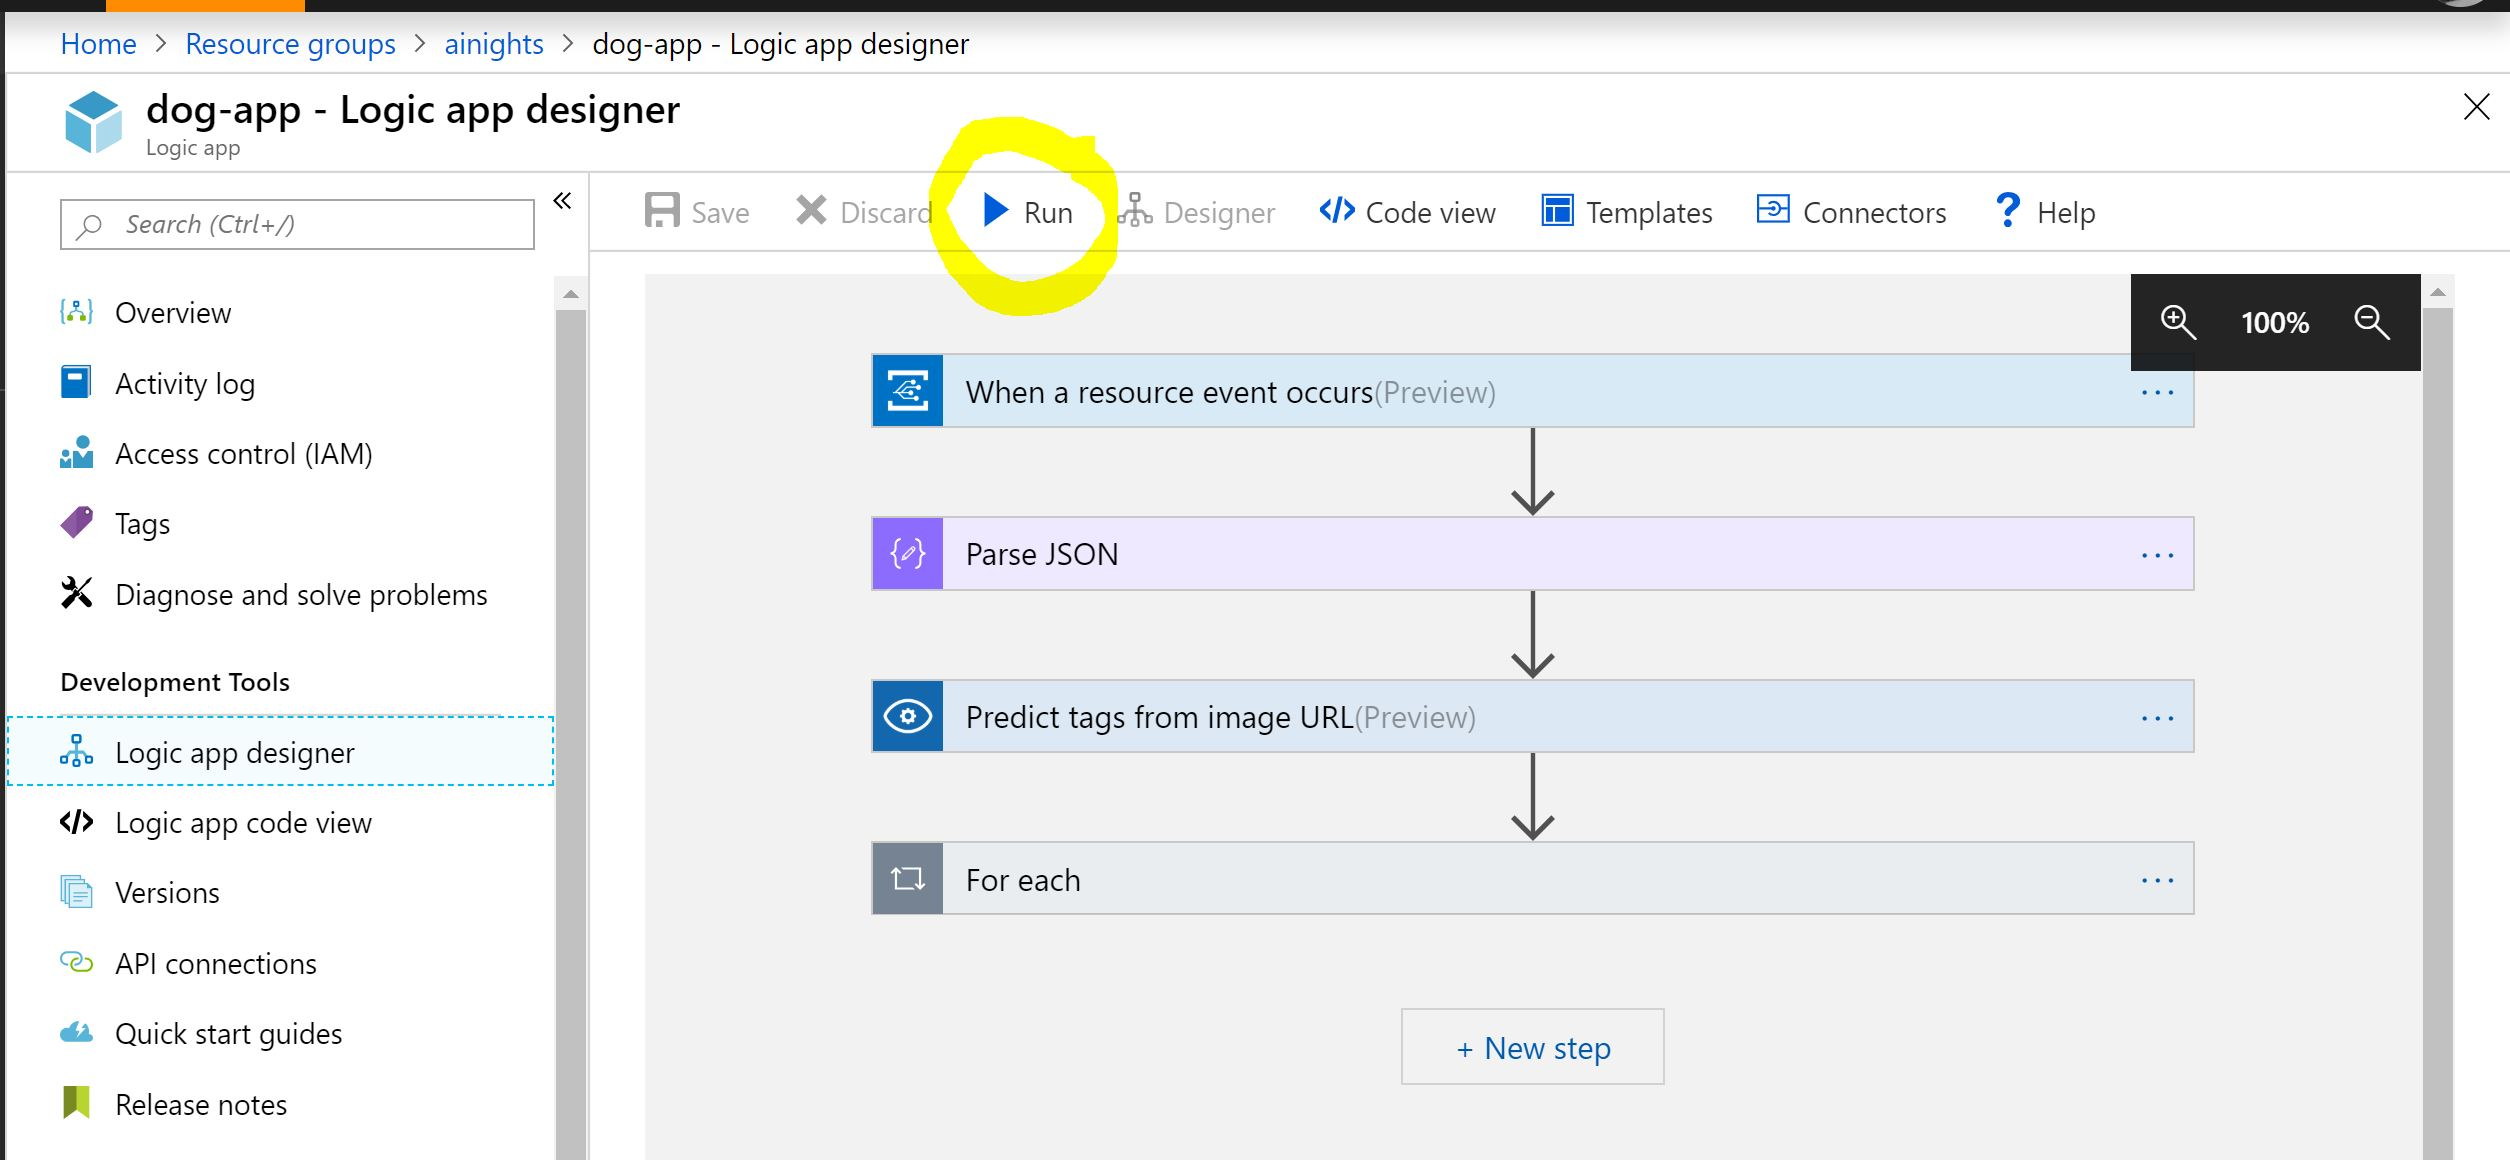
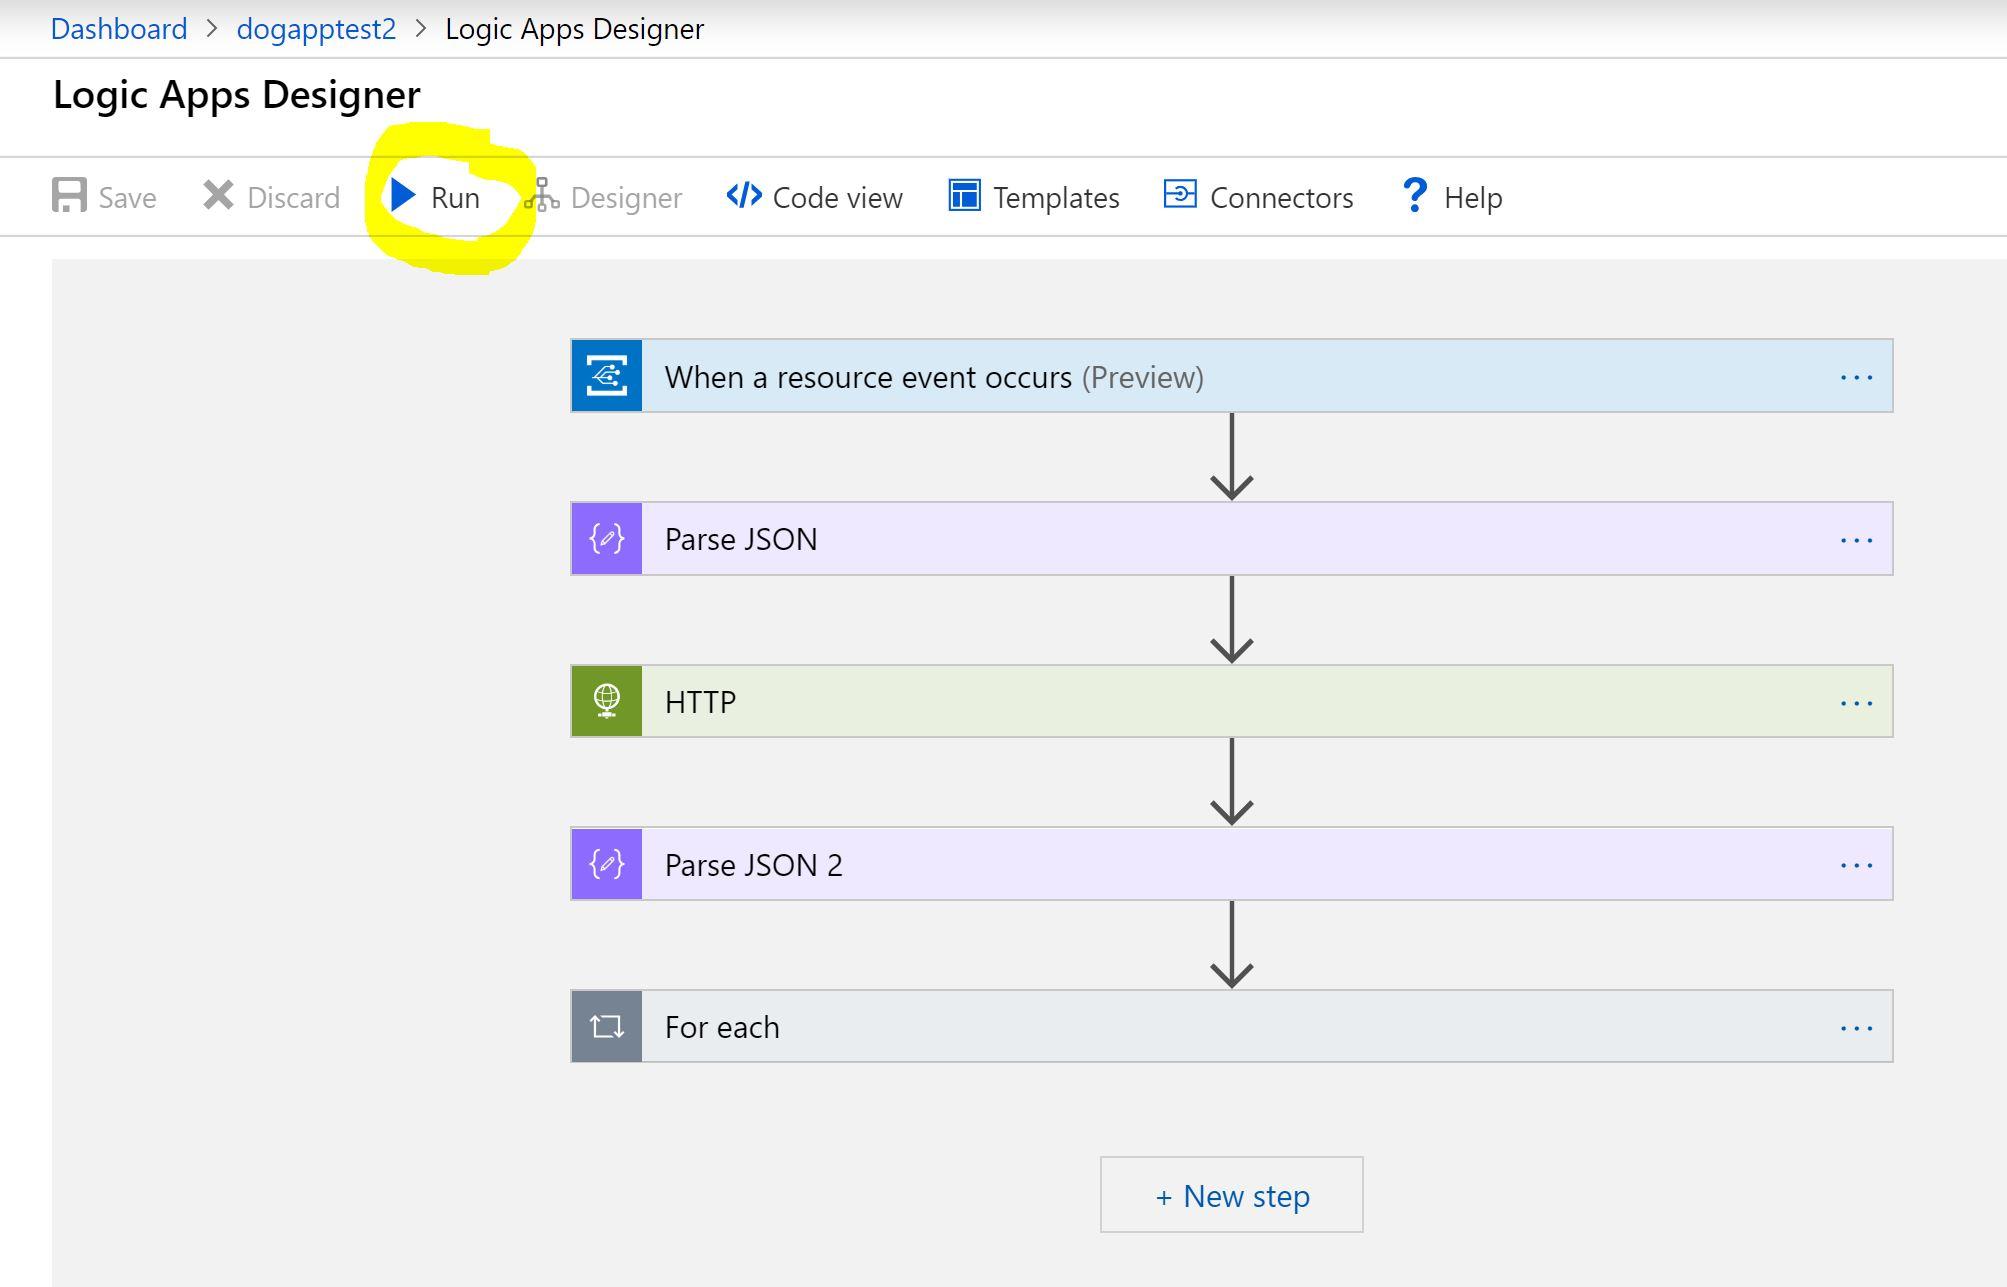
update logic apps content

diff --git a/README.md b/README.md
@@ -291,43 +291,55 @@ Select the options below:
 Then choose next step. Type **Parse JSON** and select the parse JSON operator as part of the data Data Operations category
 
 * **Content:** select the box and from the Dynamic Content box on the right, select **Body**
-* **Schema:** select this box and enter the JSON schema provided in the [logic-app-schema file](sample-code/logic-app-task/logic-app-schema.txt)
+* **Schema:** select this box and enter the JSON schema provided in the [logic-app-schema1 file](sample-code/logic-app-task/logic-app-schema1.json)
 
 ![Parse JSON](docs-images/parse-json.JPG)
 
-Then choose next step. Type Custom Vision and select the option at the top and then select **Predict tags from image URL(Preview)**
+Then choose next step. Type **HTTP** and select the HTTP option as below
 
-Enter a name for the connection (example: customvisionconnection) and enter the prediction key from the Custom Vision service dog classification project. Review you postman REST request to the dog classifier and take the key from there or from the performance tab in the custom vision service UI.
+![HTTP Connection](docs-images/http-connector.JPG)
 
-![Custom Vision Connection](docs-images/custom-vision-connection.JPG)
+Now we need to fill in the details of the REST API request - similar to using Postman App.
 
-On the next view, enter the Project ID from the custom Vision dog classification project. 
-Find this value in the Custom Vision UI, choose the settings icon in the top right corner
+* Method: POST
+* URI: enter Prediction URL from Custom Vision Service
+* Headers:
+    * "Prediction-Key" : enter your prediction key from the custom vision service
+    * "Content-Type" : "application/json"
+* Queries: enter nothing
+* Body: {"Url": "REPLACE WITH DYNAMIC CONTENT URL"}
 
-![Custom Vision Project ID](docs-images/find-project-id.JPG)
+![HTTP info](docs-images/http-request.JPG)
 
-Back in the Logic apps screen, put your cursor in the Image URL box and on the right in Dynamic Context find URL and select it
+Choose next step
 
-![get URL to predict](docs-images/get-url-to-predict.JPG)
+Then choose next step. Type **Parse JSON** and select the parse JSON operator again as part of the data Data Operations category
+
+* **Content:** select the box and from the Dynamic Content box on the right, select **Body**
+* **Schema:** select this box and enter the JSON schema provided in the [logic-app-schema2 file](sample-code/logic-app-task/logic-app-schema2.json) 
+
+> the difference between the two parse JSON is, the first one parses the event grid response about the blob storage image URL, the second one parses the JSON from the custom vision service API call return
+
+![Parse JSON](docs-images/parse-json-2.JPG)
 
 Choose next step
 
 type **for each** and select the grey control step called for each
-Once selected in the output from previous step box, select the box and from Dynamic content select **Predictions**
+Once selected in the output from previous step box, select the box and from Dynamic content select **predictions** from the Parse JSON 2 category
 
-![For each prediction](docs-images/for-each-prediction-add-action.JPG)
+![For each prediction](docs-images/for-each-prediction.JPG)
 
 Choose **Add an action**
 
 Search Control, select the control icon and then from the results, select **Condition**
 
-![If Statement](docs-images/if-statement.JPG)
+![If Statement](docs-images/control-condition.JPG)
 
-In the Condition box, select choose a value. From Dynamic content find **Prediction Probabilities**
+In the Condition box, select choose a value. From Dynamic content find Parse Json 2 and then **probability**
 
-Set the condition to be Prediction Probabilities are greater than 0.7 (as shown below)
+Set the condition to be probability greater than 0.7 (as shown below)
 
-![Condition value](docs-images/high-prediction.JPG)
+![Condition value](docs-images/probability.JPG)
 
 In the **If True** box select **Add an action**
 
@@ -339,11 +351,11 @@ In connection name enter **results** and select your results blob storage accoun
 
 In folder path, select the folder icon, far right, and choose the container name you created that is populated
 
-Select the Blob name field and enter: result-(then from the Dynamic content box select ID)
+Select the Blob name field and enter: result-(then from the Dynamic content box under Parse Json (1) select **id**)
 
-Under Blob Content, select the field and in the Dynamic Content box on the right, select **see more** under the predict image from URL section. Then select Prediction tag, enter a colon ":" and then select Prediction Probability
+Under Blob Content, select the field and in the Dynamic Content box on the right, select **see more** under the Parse Json 2 section. Then select **tagName**, enter a colon ":" and then select **probability**
 
-![Azure Blob Storage results options](docs-images/blob-content-see-more.JPG)
+![Azure Blob Storage results options](docs-images/create-blob-connector.JPG)
 
 Finally save the logic app in the top action bar
 
@@ -356,7 +368,7 @@ Choose Blob and select the images container. In there you should see an upload b
 
 ![Upload Blob](docs-images/upload-blob.JPG)
 
-Once uploaded, navigate back to your Logic App main page and review the runs history section at the bottom of the page. Select the successful run and review the inputs and outputs from the
+Once uploaded, navigate back to your Logic App main page and review the  runs history section at the bottom of the page. Select the successful run and review the inputs and outputs from the
 
 ![Run History](docs-images/logic-app-run-history.JPG)
 
@@ -367,7 +379,3 @@ All sections should have a green tick and you can select each one to view the in
 Finally navigate to your results blob storage account, select blob, enter the results container and review the file now created there. The contents of the file should show similar to the below - given the dog image input, the predicted class of the dog and also a confidence score
 
 ![Result](docs-images/result.JPG)
-
-## Clean up resources
-
-Finally, If you don't expect to need these resources in the future, you can delete them by deleting the resource group. To do so, select the resource group for this workshop, select Delete, then confirm the name of the resource group to delete.
